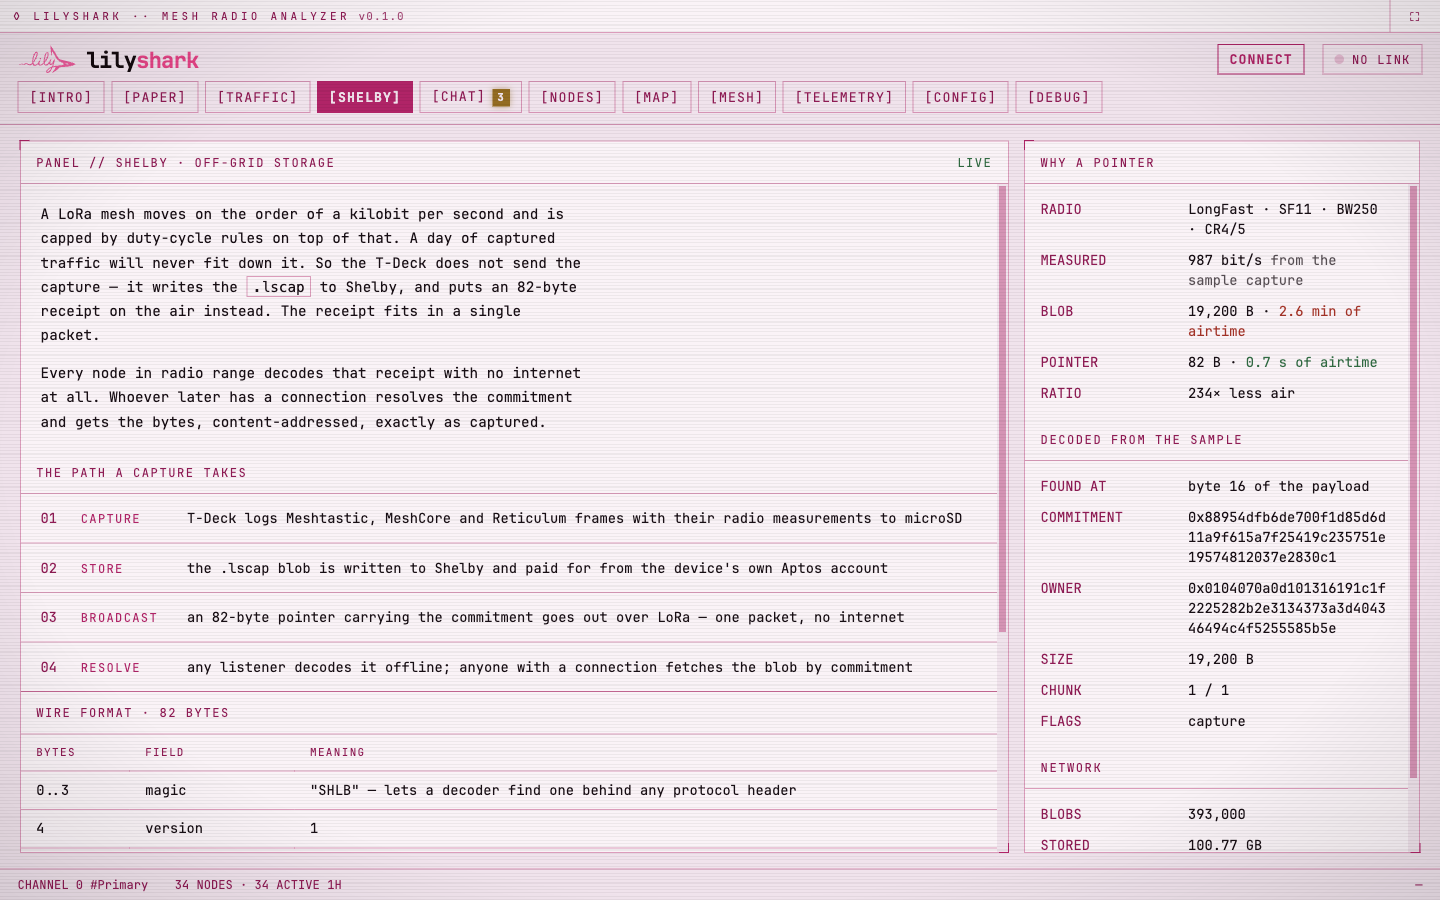
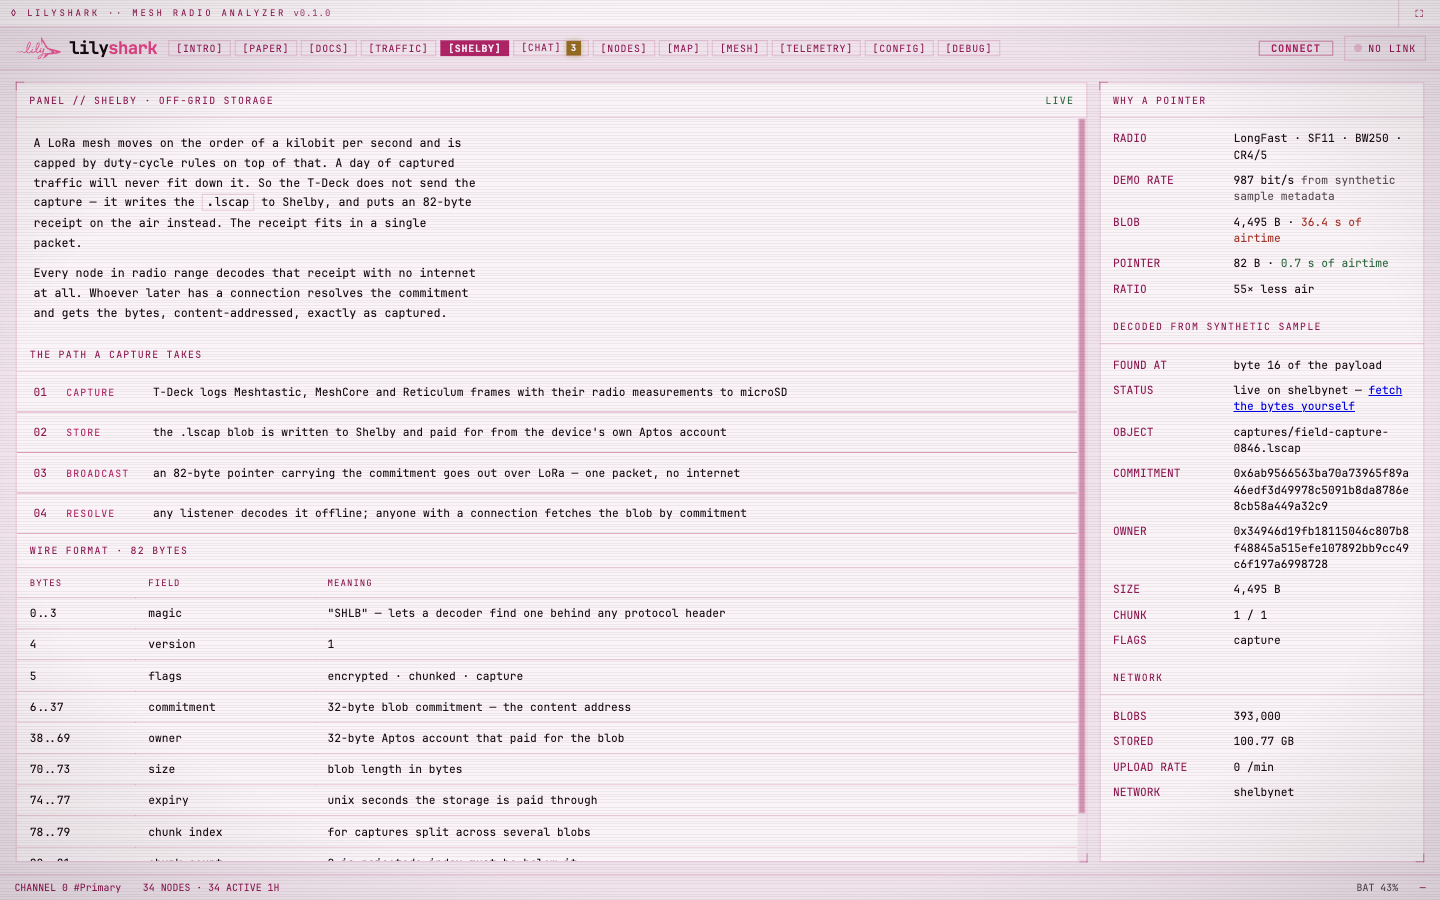
Refresh synthetic provenance docs and previews

Changed region(s): [[0.0, 0.0, 1.0, 0.9956], [0.8125, 0.7778, 0.875, 0.8089], [0.875, 0.8089, 0.9062, 0.84]]

diff --git a/webapp/src/mesh/screens/Shelby.tsx b/webapp/src/mesh/screens/Shelby.tsx
@@ -12,8 +12,8 @@ import {
  * SHELBY — what the firmware actually does with the storage network, and why.
  *
  * The argument this screen has to land is narrow and physical: a mesh radio
- * cannot carry a capture, but it can carry a receipt for one. Everything here
- * The wire-format table matches the implemented receipt. The rate model uses
+ * cannot carry a capture, but it can carry a receipt for one. The wire-format
+ * table matches the implemented receipt. The rate model uses
  * metadata from the bundled synthetic fixture. Network totals come from the
  * live indexer.
  */

diff --git a/README.md b/README.md
@@ -43,7 +43,7 @@ Lilyshark is firmware plus a web analyzer that reads what the firmware records.
 | | Where | What it does |
 | --- | --- | --- |
 | **Firmware** | `src/`, `include/` | Captures LoRa frames off the SX1262 with their radio measurements. Writes `.lscap` and LoRaTap PCAP to microSD. |
-| **Analyzer** | [`webapp/`](webapp/) — live at **[lilyshark.com](https://lilyshark.com)** | A terminal-style web app (ported from the [bundled meshcore-terminal source](webapp/src/mesh/), MIT, recolored Lilyshark pink): the **TRAFFIC** screen opens captures Wireshark-style — frame list, decoded RF metadata, hex dump, capture statistics, inline Shelby-pointer decode — the **SHELBY** screen shows the off-grid storage design with airtime math measured from the sample capture, and CHAT/NODES/MAP/MESH/TELEMETRY drive a real radio over USB or Bluetooth. Without a radio attached, the app seeds a demo mesh around Palo Alto so every screen shows live-shaped data. |
+| **Analyzer** | [`webapp/`](webapp/) — live at **[lilyshark.com](https://lilyshark.com)** | A terminal-style web app (ported from the [bundled meshcore-terminal source](webapp/src/mesh/), MIT, recolored Lilyshark pink): the **TRAFFIC** screen opens captures Wireshark-style — frame list, decoded RF metadata, hex dump, capture statistics, inline Shelby-pointer decode — the **SHELBY** screen shows the off-grid storage design with an airtime model derived from bundled synthetic sample metadata, and CHAT/NODES/MAP/MESH/TELEMETRY drive a real radio over USB or Bluetooth. Without a radio attached, the app seeds an explicitly synthetic demo mesh around Palo Alto so every screen shows useful, moving data. |
 
 Try it without a radio: open [lilyshark.com](https://lilyshark.com), press **SAMPLE** on the TRAFFIC screen, and select frame 9 — it carries a Shelby pointer, decoded inline.
 
@@ -57,12 +57,12 @@ Try it without a radio: open [lilyshark.com](https://lilyshark.com), press **SAM
     <td align="center"><sub>PAPER — the 63-page whitepaper, pre-rendered and scrollable</sub></td>
   </tr>
   <tr>
-    <td width="50%"><img src="design/previews/webapp-traffic.png" alt="TRAFFIC — live frames streaming, frame 9 carrying a Shelby pointer"></td>
-    <td width="50%"><img src="design/previews/webapp-shelby.png" alt="SHELBY — why an 82-byte pointer, with airtime measured from the capture"></td>
+    <td width="50%"><img src="design/previews/webapp-traffic.png" alt="TRAFFIC — synthetic demo frames marked not OTA, with frame 9 carrying a Shelby pointer"></td>
+    <td width="50%"><img src="design/previews/webapp-shelby.png" alt="SHELBY — why an 82-byte pointer, with demo airtime derived from synthetic sample metadata"></td>
   </tr>
   <tr>
-    <td align="center"><sub>TRAFFIC — live frames streaming, frame 9 carrying a Shelby pointer</sub></td>
-    <td align="center"><sub>SHELBY — why an 82-byte pointer, with airtime measured from the capture</sub></td>
+    <td align="center"><sub>TRAFFIC — synthetic demo frames marked NOT OTA; frame 9 carries a Shelby pointer</sub></td>
+    <td align="center"><sub>SHELBY — demo airtime derived from synthetic sample metadata</sub></td>
   </tr>
   <tr>
     <td width="50%"><img src="design/previews/webapp-chat.png" alt="CHAT — channel traffic with per-message SNR and hop count"></td>
